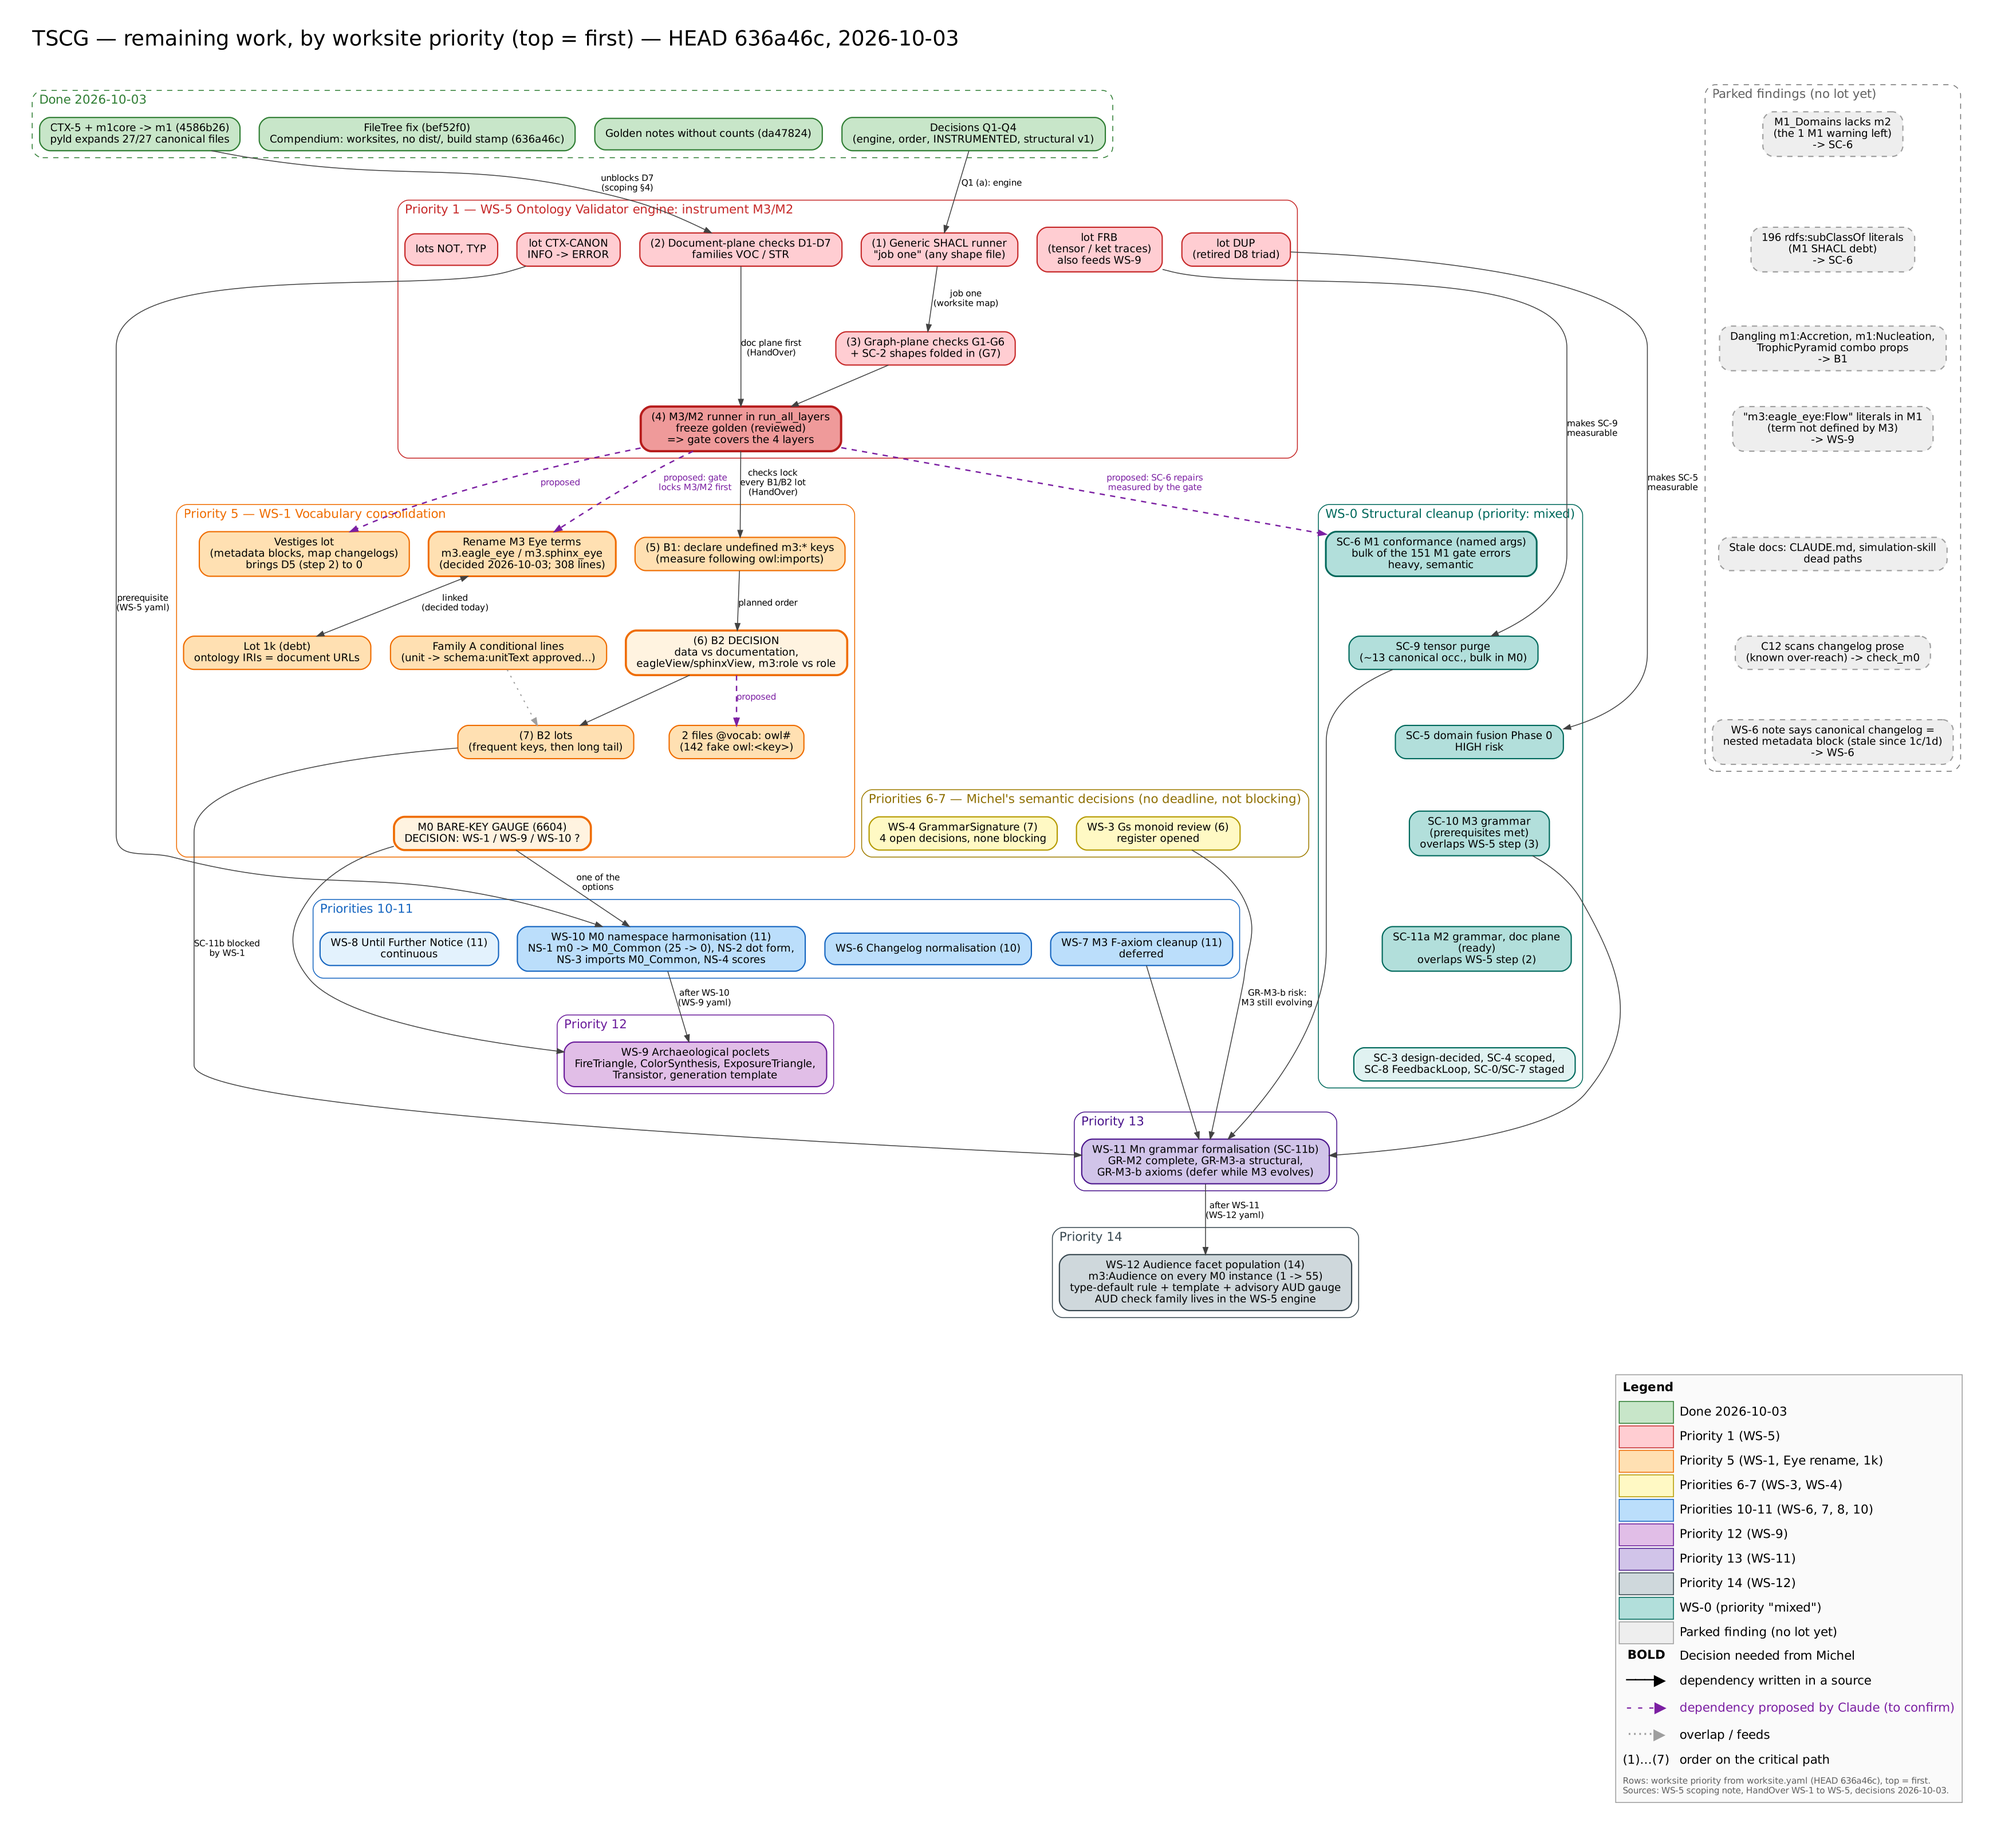
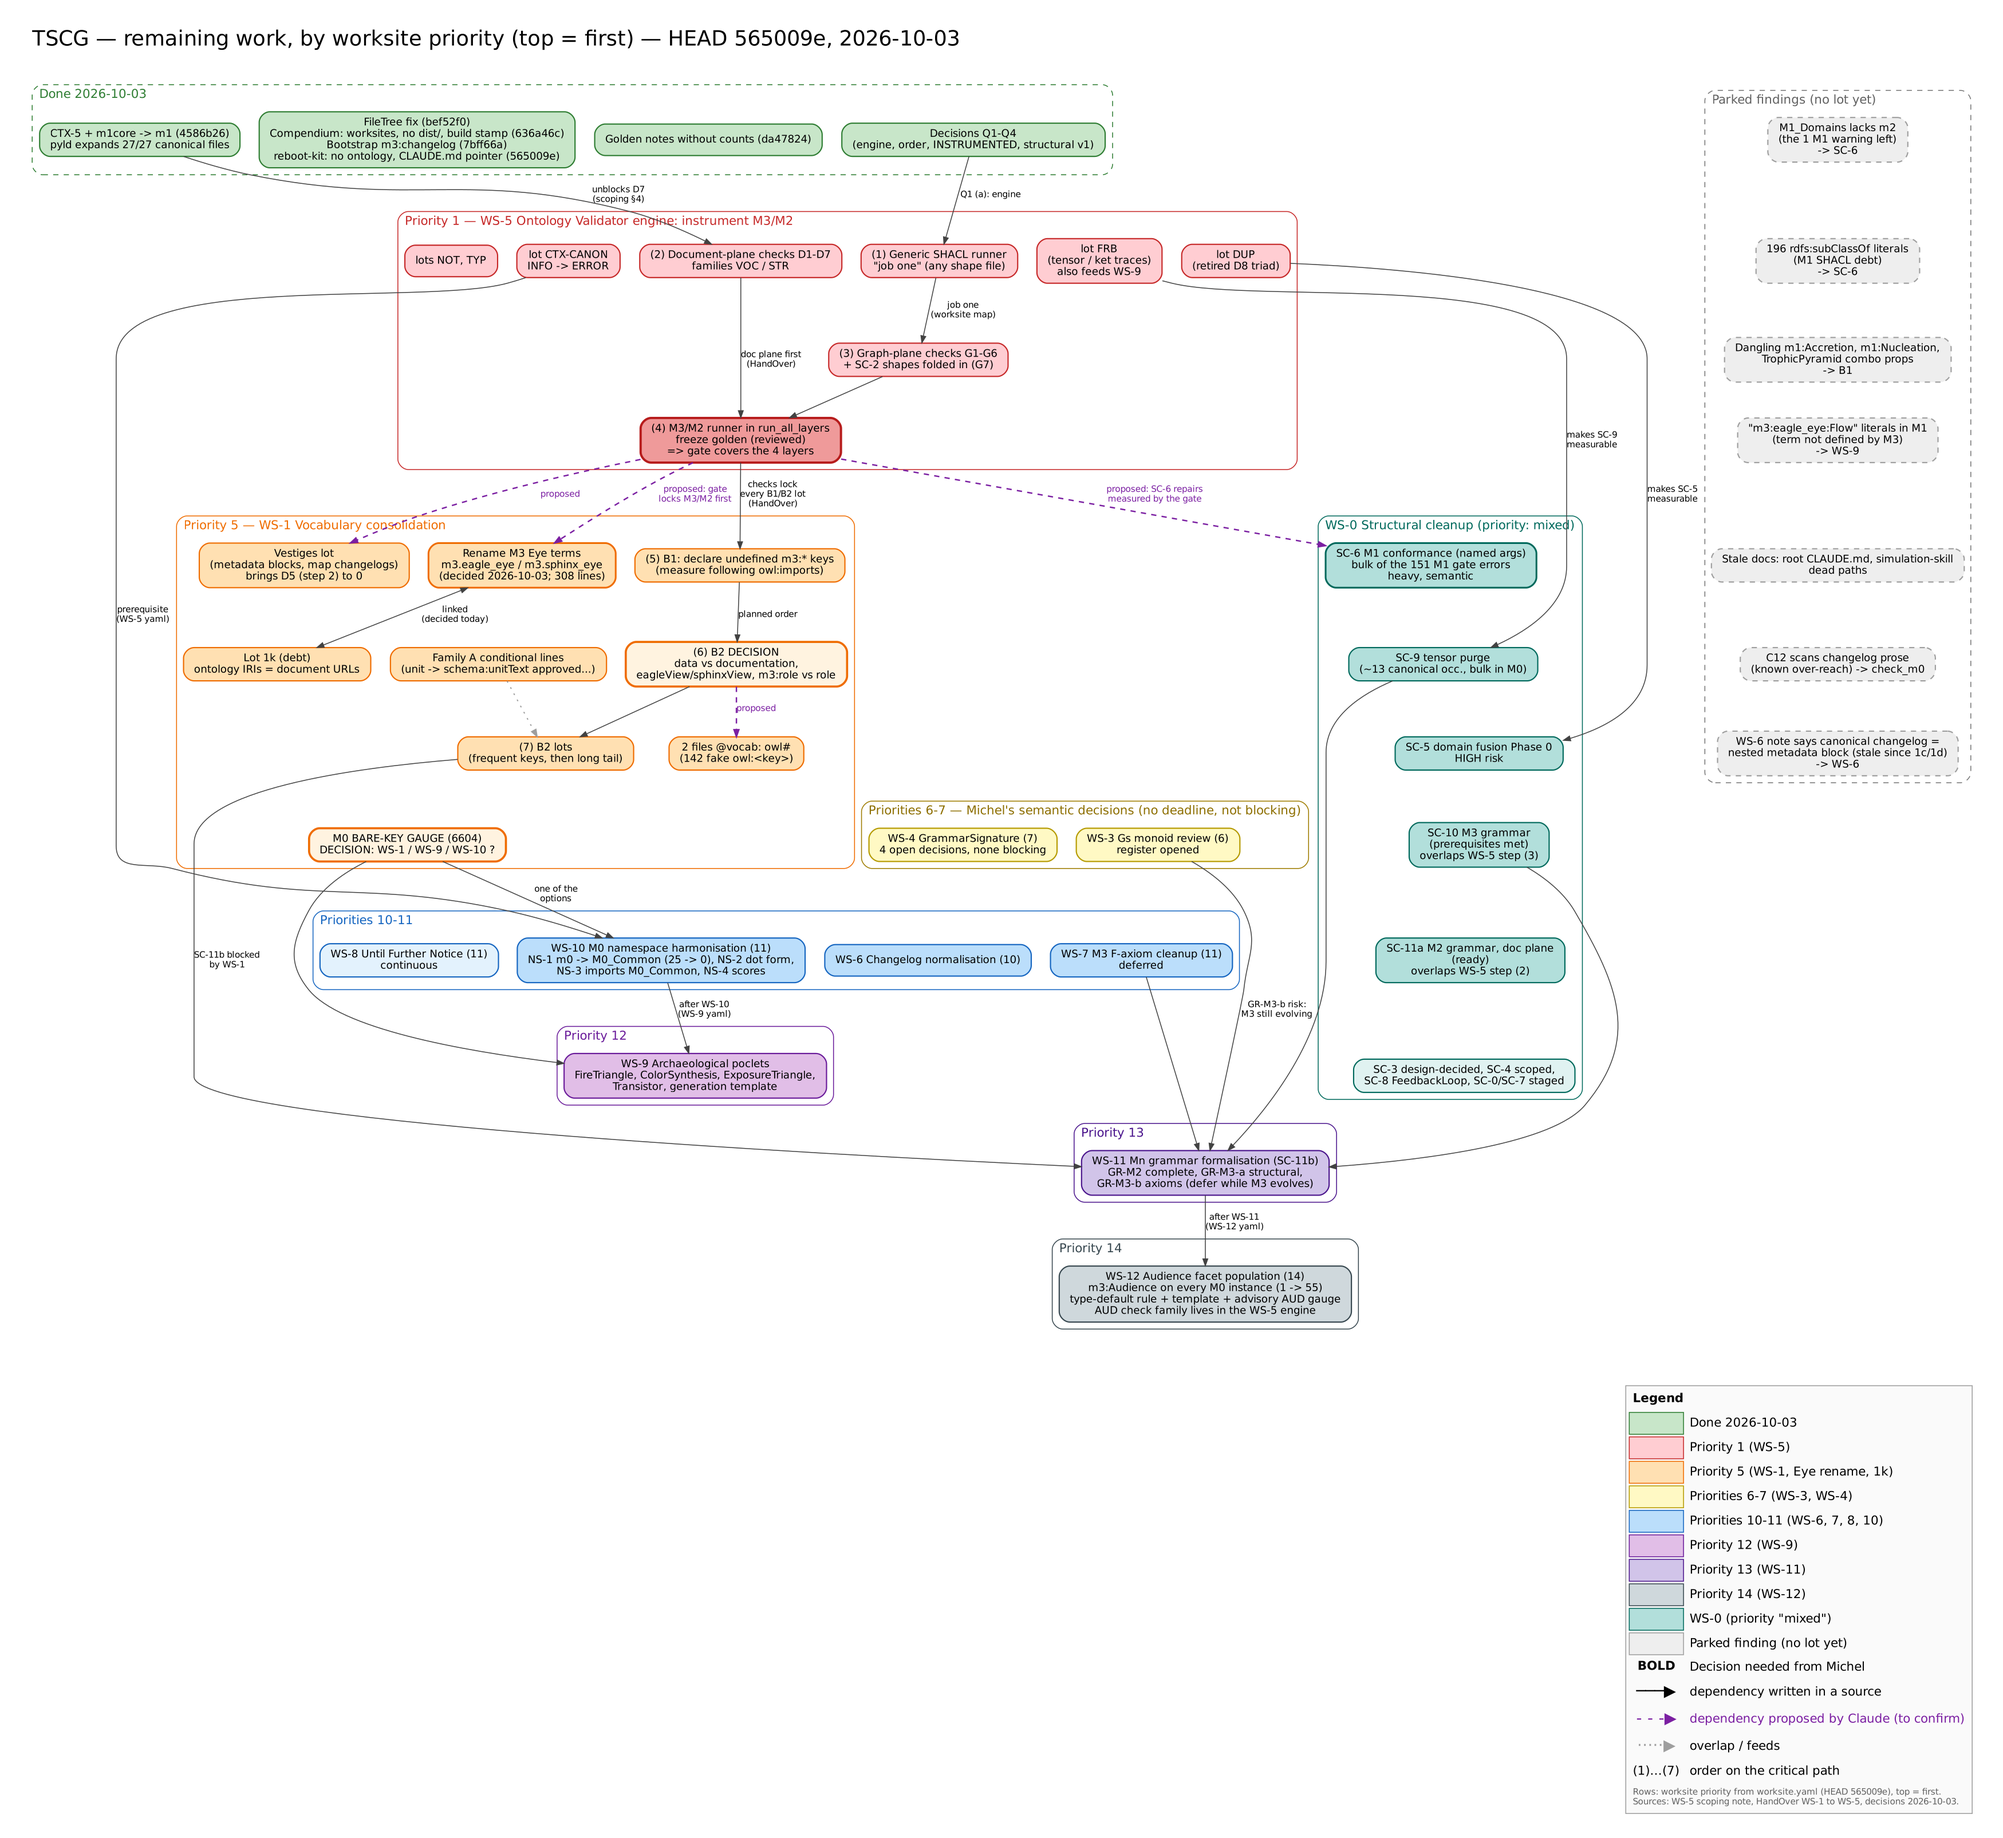
HandOver 2026-10-03: state updated to HEAD 565009e
The HandOver committed in fbdc8d6 described the state at 636a46c. Updated: HEAD 565009e; shipped table + fbdc8d6 (HandOver, .py allowed in worksite folders), 7bff66a (Bootstrap m3:changelog), 565009e (reboot-kit: no ontology files, CLAUDE.md pointer); Project Knowledge re-copied from HEAD; decisions + .py versioned in worksites, no ontology under docs/reboot-kit/; parked findings: root CLAUDE.md still stale (reboot-kit one fixed), docs/reboot-kit/files.txt, untracked files on Michel's disk to triage. Graph re-rendered with render_graph.py (title HEAD 565009e, Done box completed).

diff --git a/ontology/docs/_01_Worksite/WS-5/Next_Conversation_2026-10-03/TSCG_HandOver_WS-5_2026-10-03.md b/ontology/docs/_01_Worksite/WS-5/Next_Conversation_2026-10-03/TSCG_HandOver_WS-5_2026-10-03.md
@@ -32,7 +32,7 @@ bottom-right). Edit the `.dot` files, then run `python render_graph.py`.
 
 ## 1. Fresh session state (at handover — re-verify)
 
-- **HEAD**: `636a46c` on `main`. Confirm with `git log --oneline -5`.
+- **HEAD**: `565009e` on `main`. Confirm with `git log --oneline -8`.
 - **Gate**: `cd ontology/cli-tools && python run_all_layers.py` → `GATE: PASS`.
   M1 151 errors / 1 warning / 688 SHACL; M0 124 / 0 / 22. M3, M2: NOT INSTRUMENTED.
 - **Gauges** (`tscg_metrics.py` 1.4.0): VOC bare keys 3418; CTX-4 0; CTX-5 0; EXT-1 0;
@@ -50,8 +50,11 @@ bottom-right). Edit the `.dot` files, then run `python render_graph.py`.
 | `da47824` | Golden notes without hard-coded counts; `DEFAULT_GOLDEN` marked as a dated fallback |
 | `bef52f0` | `tscg_generate_filetree.py`: non-ASCII path quoting fixed (`core.quotepath=off`, `-z`); FileTree regenerated |
 | `636a46c` | Compendium: worksite/handover rules before "doc" rules (Project management 14 → 42 files); build skips its own `dist/` (73 phantom entries → 0); footer shows build commit + UTC date; duplicate `ontology/HANDOVER_2026-06-19 (1).md` removed |
+| `fbdc8d6` | This HandOver + dependency graph (PNG, `.dot` sources, `render_graph.py`); `.gitignore` no longer ignores `.py` in worksite folders (Michel) |
+| `7bff66a` | Bootstrap: changelog invariant is `m3:changelog` (`m2:changelog` retired 2026-09-30) |
+| `565009e` | `docs/reboot-kit/`: all ontology files removed (stale copies of M2/M3/M0, dead GenesisSpace/MetaConcepts files, a duplicate that broke the RAG build) — Michel: obsolete and a source of errors; its stale auto-loaded `CLAUDE.md` replaced by a pointer to HEAD / Bootstrap / ReferenceCorpus / root `CLAUDE.md` |
 
-Project Knowledge: `TSCG_FileTree.md` replaced by the regenerated version (2026-10-03).
+Project Knowledge (2026-10-03): `TSCG_FileTree.md`, `TSCG_ReferenceCorpus_Bootstrap.md`, `TSCG_ReferenceCorpus.md` and `UserGuide.md` re-copied from HEAD `565009e` (`_00_exercise_template.md`, empty, left as is — the Bootstrap says it should not be in the project).
 
 ### Decisions taken (Michel, 2026-10-03)
 
@@ -64,6 +67,8 @@ Project Knowledge: `TSCG_FileTree.md` replaced by the regenerated version (2026-
   (IRIs change). **Separate lot, linked to lot 1k.** Measured: 308 lines in 11 files
   (M2 237, M3 37). Recorded in the scoping note §4.
 - Patch delivery as before; the gate is run on a fresh clone before sending.
+- `.py` files are versioned in worksite folders (`.jsonld`/`.ttl` copies still ignored).
+- No ontology file under `docs/reboot-kit/` (archive folder; live ontologies only under `ontology/` and `instances/`).
 
 ### Working method that worked today (reuse it)
 
@@ -116,8 +121,13 @@ Re-measure every baseline of the scoping note §3 on HEAD before freezing anythi
 - 7 M0 instances still rejected by pyld (M0 colon-names `m0:x:`, relative aliases such as
   `m1music`) → WS-10.
 - Bare keys merely containing `m1core` (`m1coreRef`, `primaryM1core`…) → B2.
-- Stale docs: `CLAUDE.md` (GenesisSpace, 80 concepts…), simulation skill dead paths
-  (`ontology/TSCG_Grammar/`, `migrate_m1core_to_m1.py`).
+- Stale docs: the repository-root `CLAUDE.md` (GenesisSpace, 80 concepts, tensor formulas…;
+  the `docs/reboot-kit/` one is fixed), simulation skill dead paths (`ontology/TSCG_Grammar/`,
+  `migrate_m1core_to_m1.py`), `docs/reboot-kit/files.txt` (lists removed files).
+- Untracked files on Michel's disk to triage (not in the repo): `instances/_01_Worksite/2026_09_16/`,
+  World2DProjection `static/_docs/` and `W2P_COASTLINE.js`, `ontology/cli-tools/verify_multiplicity_lot.py`,
+  and 4 worksite folders (`OntologyEngineering/`, `WS-0/…2026-09-29/`, `WS-1/…2026-09-30/`,
+  `WS-5/2026_01_10/`) — check for copies of live scripts before adding them.
 - WS-6 note still says the canonical changelog is a nested metadata block (stale since
   lots 1c/1d: `m3:changelog`).
 - C12 (check_m0) scans changelog prose (known over-reach).
